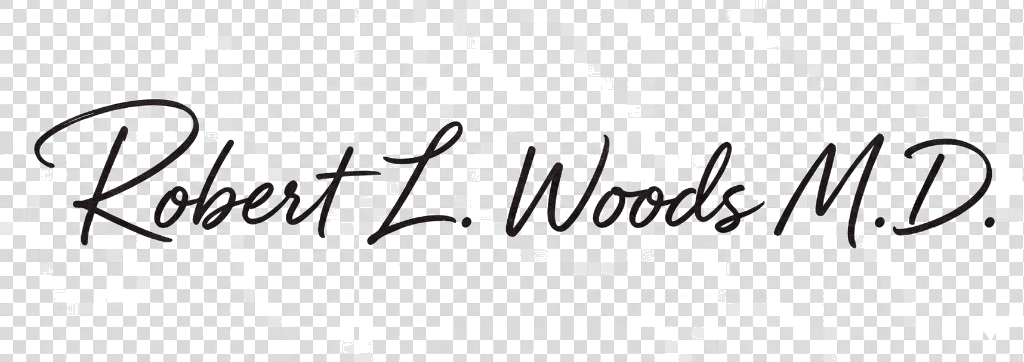
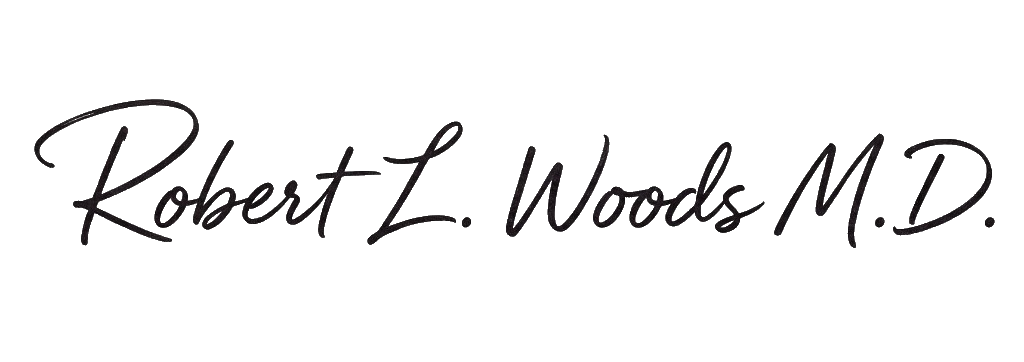
fix: signature transparency + header flex blowout
Re-key PNG to remove baked-in gray checkerboard (opaque light neutrals).
Constrain logo link with min-w-0/max-width and drop inch-based margins
so Next/Image intrinsic width cannot collapse the nav row. Tighten
DoctorSignature defaults (max-w-full); hero/banners keep larger overrides.
Add overflow-x-hidden on body as a safety net.

Made-with: Cursor

diff --git a/app/components/Header.tsx b/app/components/Header.tsx
@@ -129,16 +129,19 @@ export default function Header() {
       {/* Main nav - light olive tint */}
       <div className="w-full bg-olive-50 border-b border-olive-100">
         <div className="max-w-7xl mx-auto px-4 sm:px-6 lg:px-8">
-        <div className="flex justify-between items-center py-4">
-          {/* Logo - centered under phone #, 0.5in from left, 1in from menu */}
-          <Link href="/" className="block pl-[0.5in] mr-[1in] shrink-0">
+        <div className="flex justify-between items-center gap-4 py-4">
+          {/* Logo: min-w-0 + max-w so wide intrinsic image cannot blow out flex row */}
+          <Link
+            href="/"
+            className="block min-w-0 max-w-[240px] sm:max-w-[280px] md:max-w-[300px] lg:max-w-[340px] shrink"
+          >
             <span className="sr-only">{doctor.name}</span>
-            <DoctorSignature className="md:h-[4.25rem]" />
-            <p className="text-olive-500 text-sm font-medium whitespace-nowrap mt-1">{doctor.subtitle}</p>
+            <DoctorSignature className="md:h-[4rem] lg:h-[4.25rem]" />
+            <p className="text-olive-500 text-sm font-medium truncate mt-1">{doctor.subtitle}</p>
           </Link>
 
           {/* Desktop Nav - single line, no wrap */}
-          <nav className="hidden lg:flex items-center flex-nowrap space-x-8 shrink-0">
+          <nav className="hidden lg:flex items-center flex-nowrap space-x-8 shrink-0 min-w-0">
             {nav.map((item) => (
               <span key={item.href} className="whitespace-nowrap shrink-0">
                 <DropdownMenu

diff --git a/app/components/DoctorSignature.tsx b/app/components/DoctorSignature.tsx
@@ -3,17 +3,21 @@ import signatureImg from '../../public/images/robert-l-woods-signature.png'
 
 type DoctorSignatureProps = {
   className?: string
-  /** Renders as light signature on dark areas (footer, hero/banner overlays) via CSS filter. PNG stays transparent. */
+  /** Light signature on dark overlays/footer (black ink → white; transparency preserved). */
   onDarkBackground?: boolean
 }
 
+/**
+ * Keep max width bounded: this image is ~1024px wide; without max-w-full + a constrained
+ * parent, flex `min-width: auto` uses intrinsic width and breaks the header layout.
+ */
 export default function DoctorSignature({ className = '', onDarkBackground = false }: DoctorSignatureProps) {
   return (
     <Image
       src={signatureImg}
       alt="Signature: Robert L. Woods, M.D."
-      className={`h-14 w-auto max-w-[min(100%,min(92vw,520px))] object-contain object-left sm:h-16 sm:max-w-[min(100%,560px)] md:h-[4.75rem] md:max-w-[min(100%,600px)] ${onDarkBackground ? 'brightness-0 invert' : ''} ${className}`}
-      sizes="(max-width: 640px) 92vw, (max-width: 1024px) 560px, 600px"
+      className={`h-12 w-auto max-w-full object-contain object-left sm:h-14 md:h-[3.75rem] ${onDarkBackground ? 'brightness-0 invert' : ''} ${className}`}
+      sizes="(max-width: 640px) 260px, (max-width: 1024px) 320px, 360px"
       priority={false}
     />
   )

diff --git a/app/components/Hero.tsx b/app/components/Hero.tsx
@@ -27,7 +27,10 @@ export default function Hero() {
             <span className="sr-only">
               {doctor.name} — {doctor.subtitle}
             </span>
-            <DoctorSignature onDarkBackground className="md:h-[5rem] md:max-w-[min(100%,640px)]" />
+            <DoctorSignature
+              onDarkBackground
+              className="h-14 sm:h-16 md:h-20 md:max-w-[min(92vw,680px)]"
+            />
           </div>
           <h1 className="text-4xl md:text-5xl lg:text-6xl font-bold text-white font-serif leading-tight">
             <span className="block">{hero.line1}</span>

diff --git a/app/components/PageBanner.tsx b/app/components/PageBanner.tsx
@@ -26,7 +26,7 @@ export default function PageBanner({ title, subtitle, imageSrc = '/images/servic
         <div className="max-w-7xl mx-auto w-full">
           <div className="mb-2">
             <span className="sr-only">{doctor.name}</span>
-            <DoctorSignature onDarkBackground className="sm:h-[4.25rem] md:h-[4.75rem]" />
+            <DoctorSignature onDarkBackground className="h-12 sm:h-14 md:h-[4.25rem] max-w-[min(85vw,420px)]" />
           </div>
           <h1 className="text-4xl md:text-5xl font-bold text-white tracking-tight uppercase">
             {title}

diff --git a/app/components/AboutDoctorWoods.tsx b/app/components/AboutDoctorWoods.tsx
@@ -51,8 +51,8 @@ export default function AboutDoctorWoods() {
                 <p className="text-gray-600 leading-relaxed text-lg">{journey.content}</p>
               )
             )}
-            <div className="mt-10 pt-2 border-t border-olive-100">
-              <DoctorSignature className="h-16 sm:h-[4.5rem] md:h-20 md:max-w-[min(100%,640px)]" />
+            <div className="mt-10 pt-2 border-t border-olive-100 max-w-lg">
+              <DoctorSignature className="h-14 sm:h-16 md:h-[4.5rem]" />
             </div>
           </div>
         </article>

diff --git a/app/components/Footer.tsx b/app/components/Footer.tsx
@@ -26,8 +26,8 @@ export default function Footer() {
           {/* Practice */}
           <div>
             <h3 className="sr-only">{doctor.name}</h3>
-            <div className="mb-4">
-              <DoctorSignature onDarkBackground />
+            <div className="mb-4 max-w-[320px]">
+              <DoctorSignature onDarkBackground className="md:h-[4rem]" />
             </div>
             <p className="text-olive-400 text-sm font-medium mb-4">{doctor.subtitle}</p>
             <p className="text-gray-400 text-sm leading-relaxed">{doctor.tagline}</p>

diff --git a/app/globals.css b/app/globals.css
@@ -8,7 +8,7 @@
   }
 
   body {
-    @apply text-gray-900 bg-olive-50 font-sans;
+    @apply text-gray-900 bg-olive-50 font-sans overflow-x-hidden;
     font-feature-settings: 'rlig' 1, 'calt' 1;
   }
 
